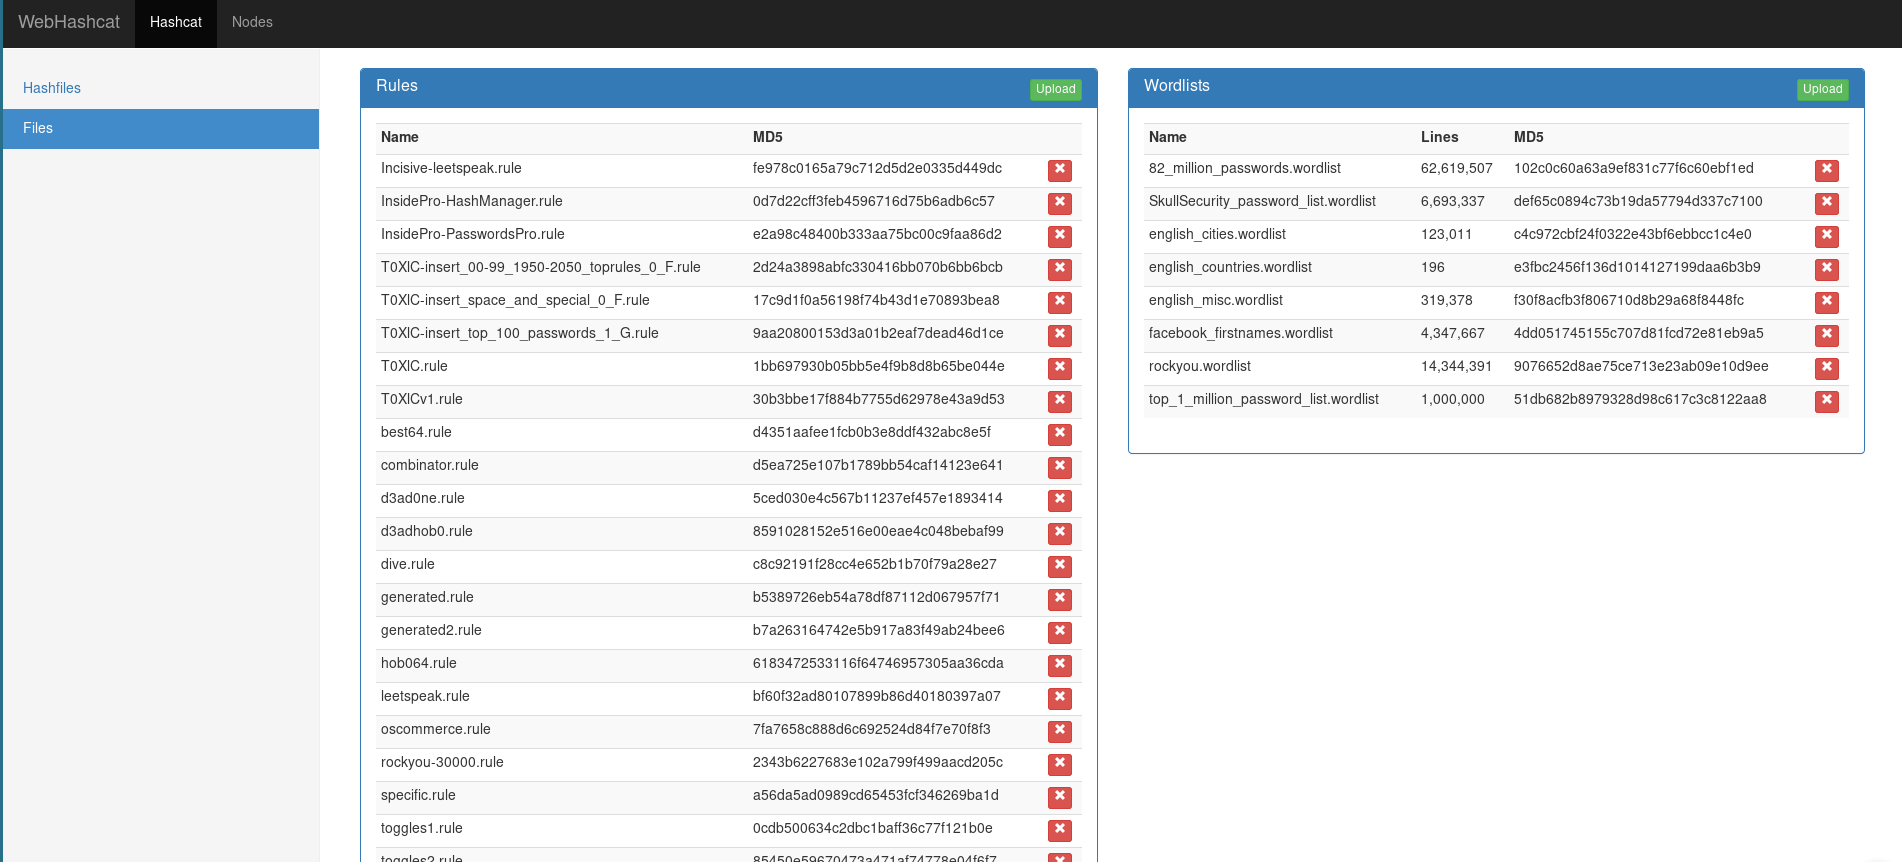
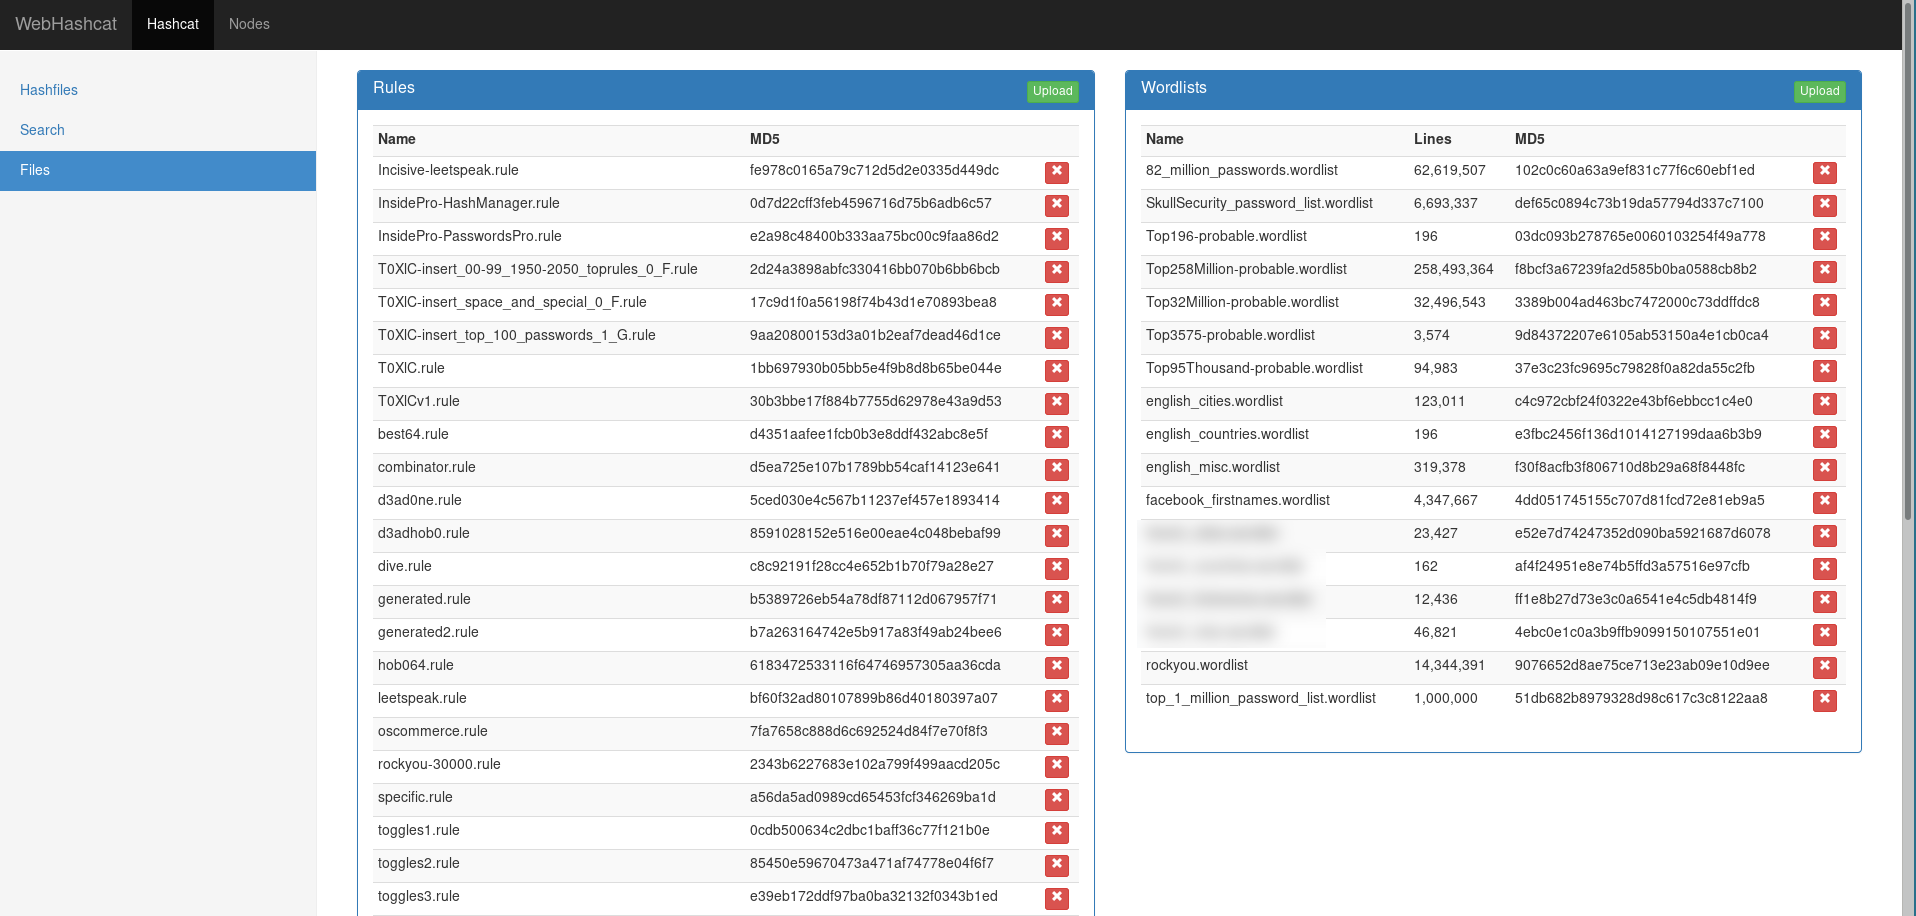
Requirements file added, README and screenshots updated

Changed region(s): [[0.0, 0.0, 1.0, 1.0], [0.0, 0.0, 0.1551, 0.0603]]

diff --git a/README.md b/README.md
@@ -7,6 +7,7 @@ It hash the following features:
 * Cracked hashes are displayed almost as soon as they are cracked
 * Cracking session restore (for example after host reboot)
 * Upload plaintext files for analytics purposes
+* Search patterns through the entire database
 * Analytics
 
 Currently WebHashcat supports rule-based and mask-based attack mode
@@ -48,6 +49,12 @@ If you set the cron to 5 minutes, the central potfile will be updated every 5 mi
 Simply click on the hashfile to view the results, it can take few seconds on huge hashfiles. Note that you can also download the results on both the hashfile list and hashfile views.
 
 <p align="center"><img src="./screenshots/webhashcat_hashfile.png" alt="Hashfile details"></p>
+
+### Search for ŝpecific patterns in usernames
+
+Using this functionality you can easily search from client's email addresses in leaks uploaded in webhashcat. Simply provide a string you want to look for in the username and select in which hashfiles you want to look for it. Once the research in the database is done, you should be able to download the results. If you add a new hashfile afterwards, you can simply click on the 'reload' button and WebHashcat will search again in the whole database.
+
+<p align="center"><img src="./screenshots/webhashcat_searches.png" alt="Hashfile details"></p>
 
 ## Install
 
@@ -146,8 +153,8 @@ Supervisor is the deamon which is responsible of heavy background tasks such as 
 - humanize
 - requests
 - requests-toolbelt
-- schedule
 - celery
+- redis
 - supervisor
 
 ## Operating System improvements
